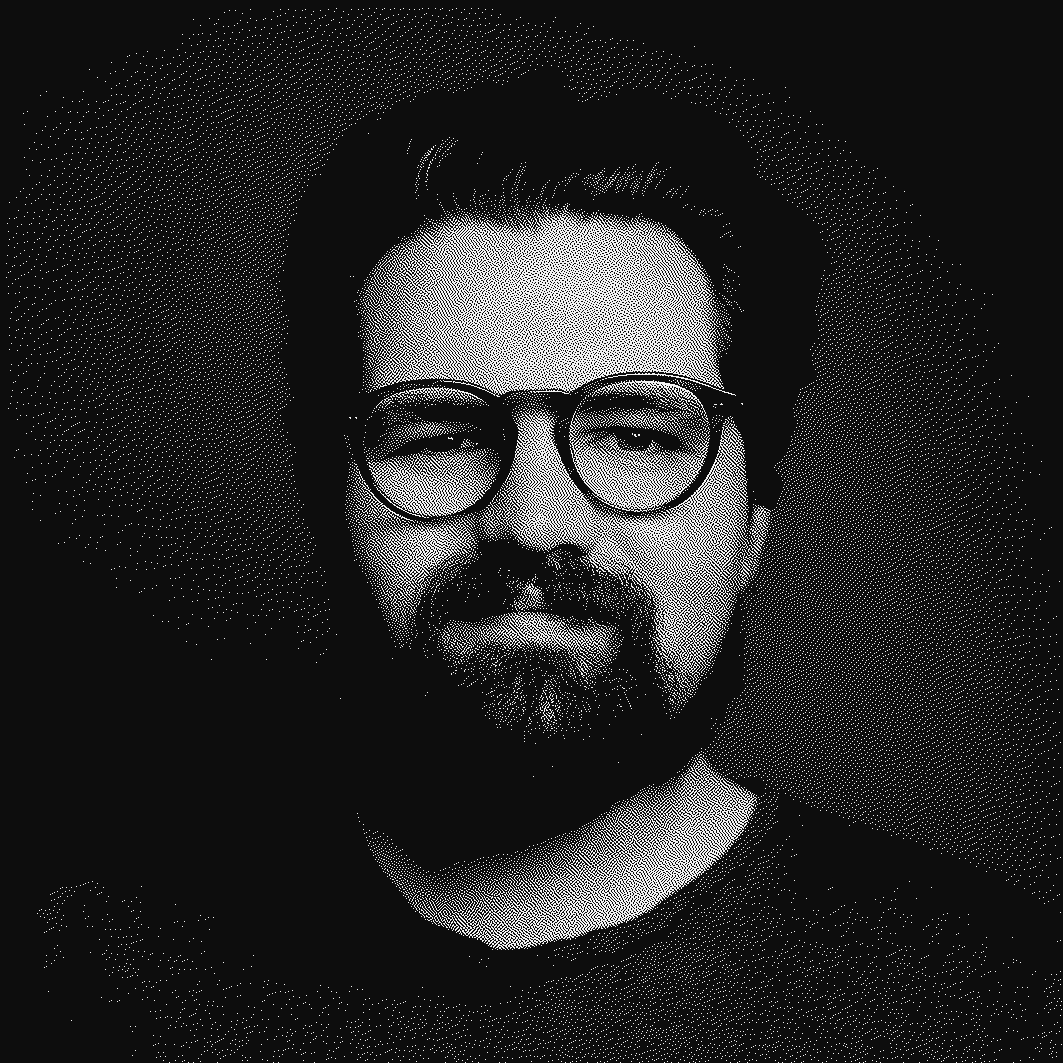
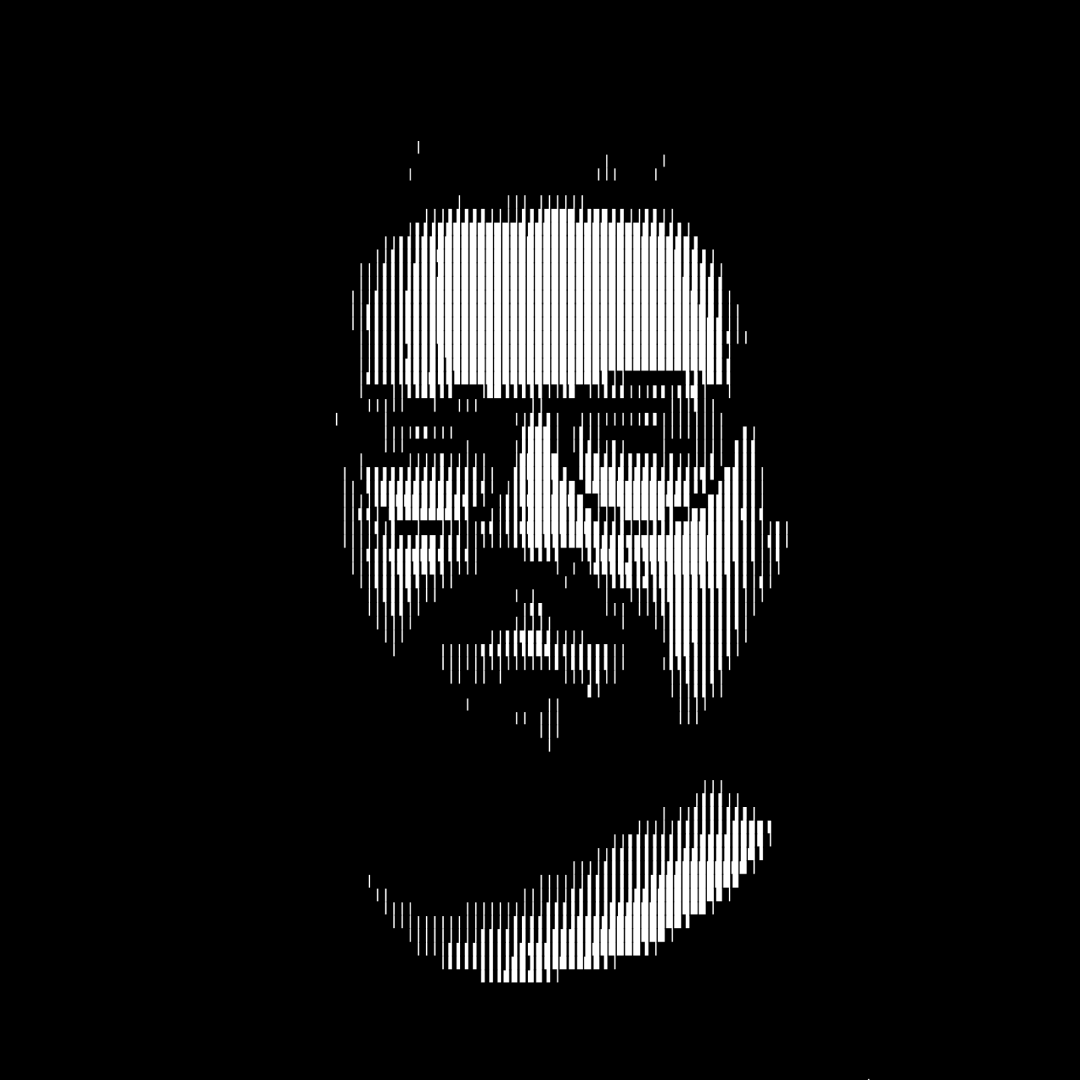
chore: Updated pfp and farcaster link

Changed region(s): [[0.3104, 0.1552, 0.8071, 0.683], [0.3415, 0.714, 0.714, 0.9313]]

diff --git a/src/data/constants.ts b/src/data/constants.ts
@@ -1,43 +1,43 @@
 export const MENU_LINKS = [
-  {
-    title: "Home",
-    path: "/",
-  },
-  {
-    title: "About",
-    path: "/about",
-  },
-  {
-    title: "Blog",
-    path: "/posts",
-  },
-  {
-    title: "Projects",
-    path: "/projects",
-  },
-  {
-    title: "Videos",
-    path: "/videos",
-  },
-  {
-    title: "Photos",
-    path: "https://photos.stevedylan.dev",
-  },
+	{
+		title: "Home",
+		path: "/",
+	},
+	{
+		title: "About",
+		path: "/about",
+	},
+	{
+		title: "Blog",
+		path: "/posts",
+	},
+	{
+		title: "Projects",
+		path: "/projects",
+	},
+	{
+		title: "Videos",
+		path: "/videos",
+	},
+	{
+		title: "Photos",
+		path: "https://photos.stevedylan.dev",
+	},
 ];
 
 // ! Remember to add your own socials
 export const SOCIAL_LINKS = {
-  github: "https://github.com/stevedylandev",
-  twitter: "https://twitter.com/stevedylandev",
-  youtube: "https://youtube.com/@stevedylandev",
-  telegram: "https://telegram.me/stevedylandev",
-  farcaster: "https://warpcast.com/stevedylandev.eth",
-  medium: "https://medium.com/@stevedylandev",
-  linkedin: "https://www.linkedin.com/in/steve-simkins/",
-  photos: "https://photos.stevedylan.dev",
-  threads: "https://threads.net/stevedylandev",
-  website: "/",
-  coffee: "https://buymeacoffee.com/stevedylandev",
-  orbiter: "https://orbiter.host",
-  ethereum: "https://app.ens.domains/stevedylandev.eth"
+	github: "https://github.com/stevedylandev",
+	twitter: "https://twitter.com/stevedylandev",
+	youtube: "https://youtube.com/@stevedylandev",
+	telegram: "https://telegram.me/stevedylandev",
+	farcaster: "https://farcaster.xyz/stevedylandev.eth",
+	medium: "https://medium.com/@stevedylandev",
+	linkedin: "https://www.linkedin.com/in/steve-simkins/",
+	photos: "https://photos.stevedylan.dev",
+	threads: "https://threads.net/stevedylandev",
+	website: "/",
+	coffee: "https://buymeacoffee.com/stevedylandev",
+	orbiter: "https://orbiter.host",
+	ethereum: "https://app.ens.domains/stevedylandev.eth",
 };
